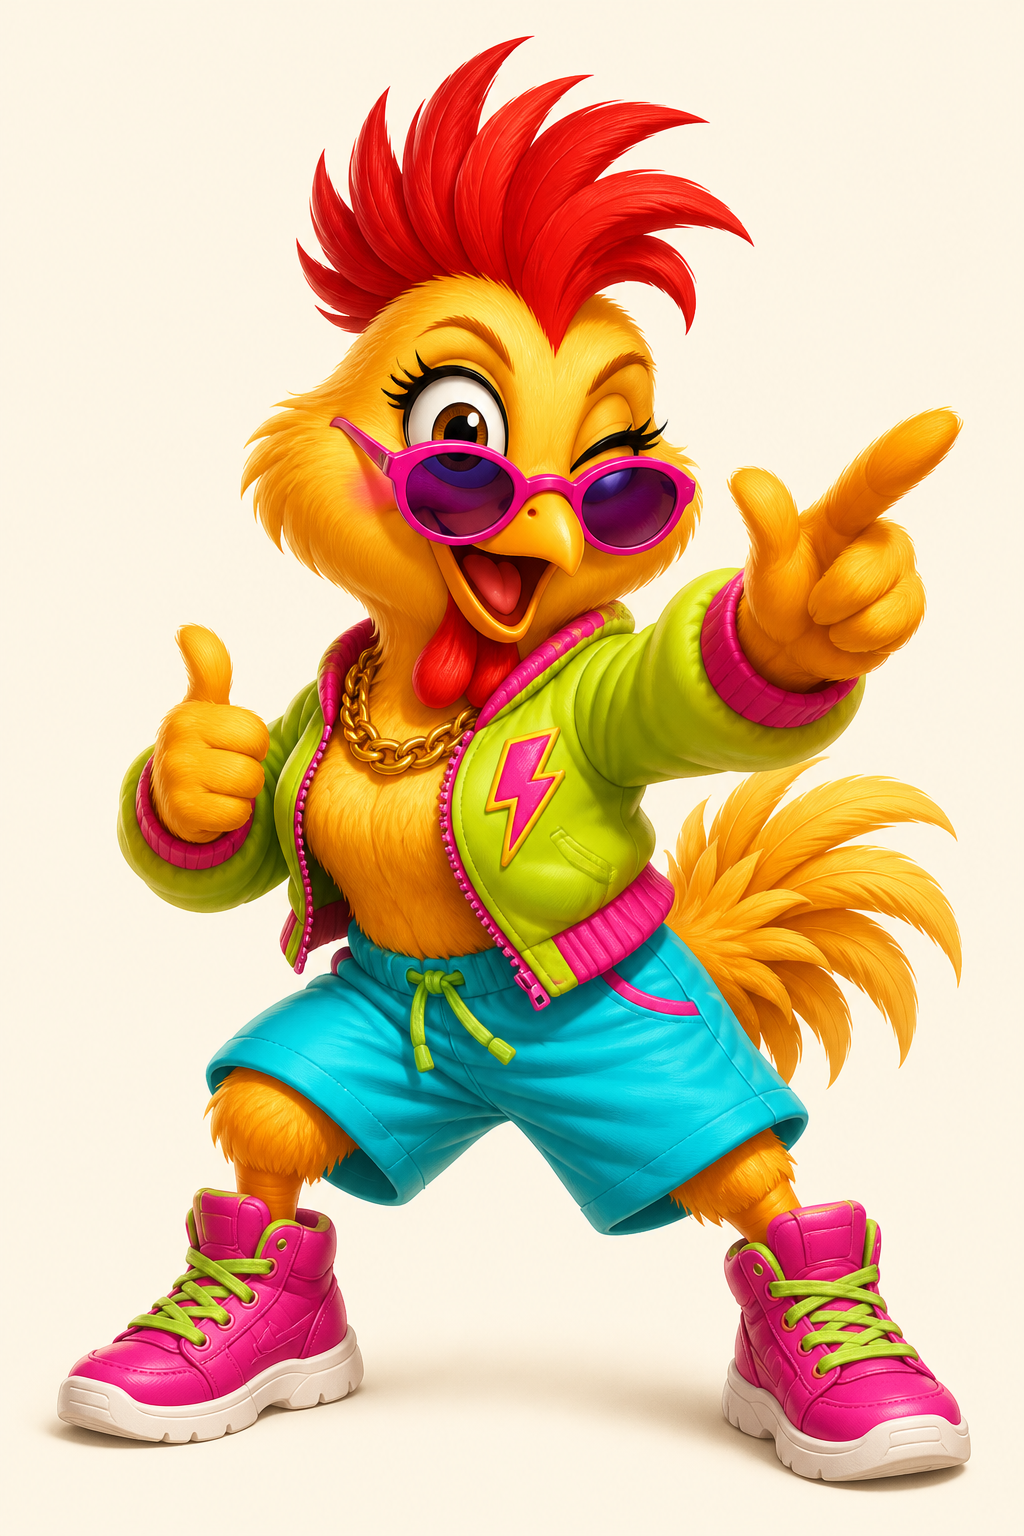
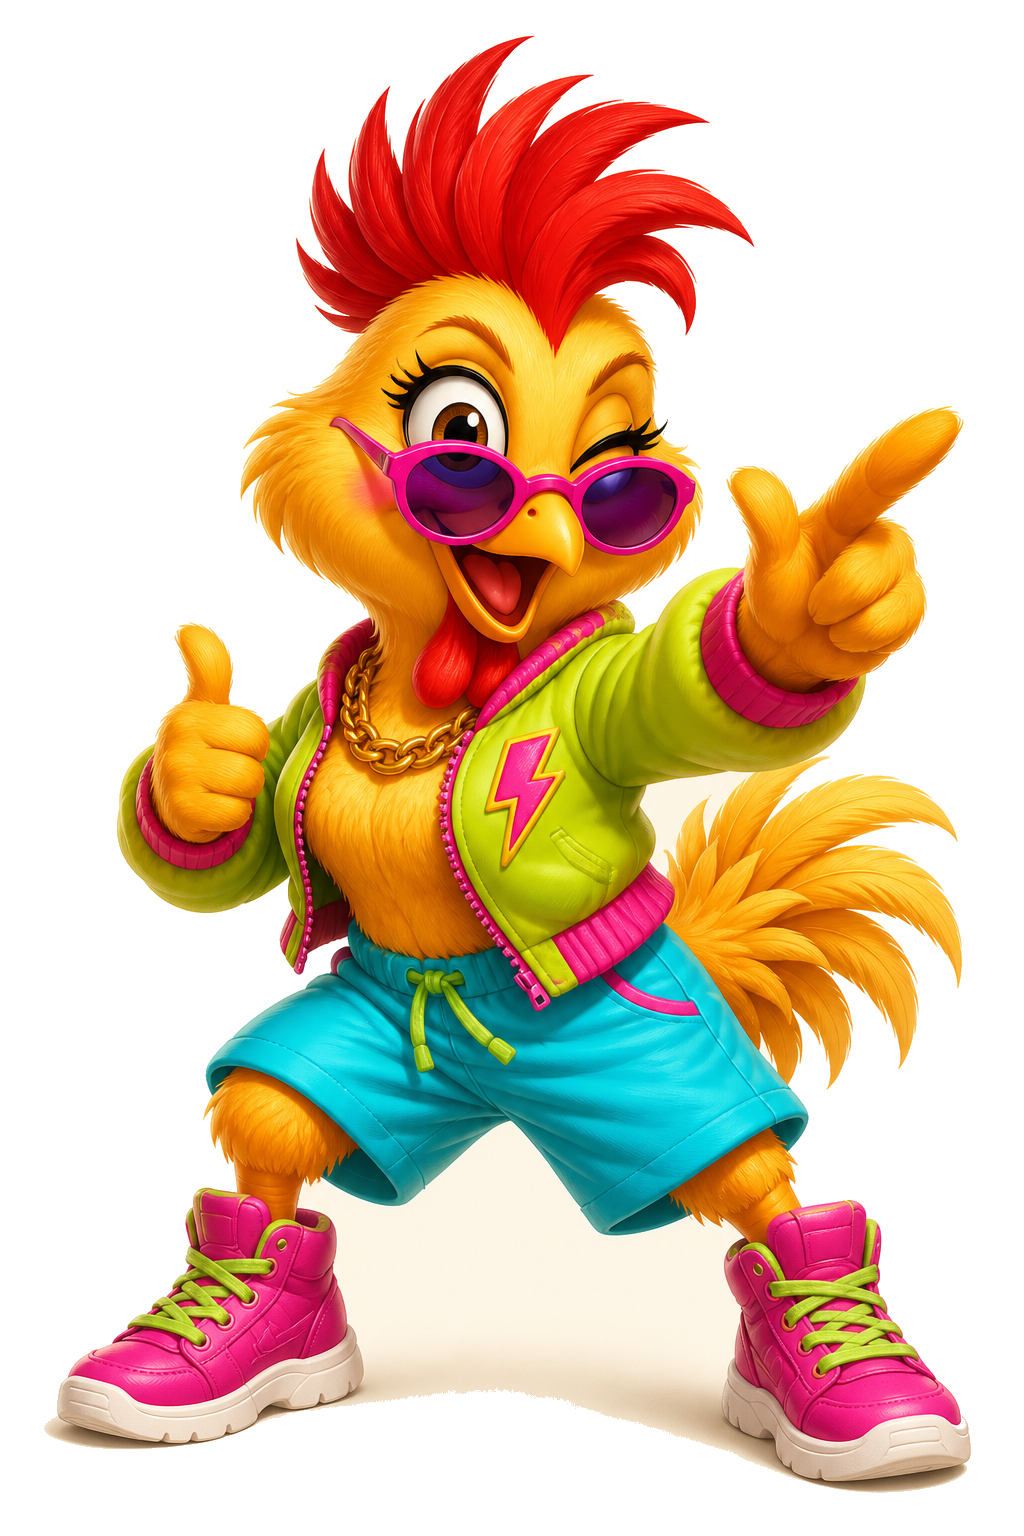
Fit the hen mascot in the split hero and knock out its backdrop
Scale Henrietta to the leftover hero height so her sneakers stay on screen, remove the cream PNG background, and add a demo hint on the forgot-password link.

diff --git a/src/App.css b/src/App.css
@@ -107,8 +107,8 @@
     radial-gradient(circle at 20% 80%, rgba(255, 45, 149, 0.22), transparent 32%),
     radial-gradient(circle at 90% 12%, rgba(25, 232, 255, 0.28), transparent 28%),
     linear-gradient(160deg, #fff8e6 0%, #ffe27a 42%, #ffb4e2 100%);
-  display: grid;
-  grid-template-rows: auto 1fr;
+  display: flex;
+  flex-direction: column;
   padding: 28px 24px 0;
 }
 
@@ -148,10 +148,12 @@
 
 .hen-stage {
   position: relative;
+  flex: 1 1 auto;
+  min-height: 0;
   display: flex;
   align-items: flex-end;
   justify-content: center;
-  min-height: 420px;
+  padding-bottom: 10px;
 }
 
 .speech {
@@ -183,8 +185,13 @@
 }
 
 .hen {
-  width: min(78%, 520px);
-  filter: drop-shadow(18px 28px 0 rgba(42, 8, 56, 0.18));
+  width: auto;
+  max-width: min(86%, 560px);
+  height: 100%;
+  max-height: min(100%, 62vh);
+  object-fit: contain;
+  object-position: bottom center;
+  filter: drop-shadow(0 18px 0 rgba(42, 8, 56, 0.16));
   animation: bounce 2.4s ease-in-out infinite;
   transform-origin: 50% 90%;
 }
@@ -197,13 +204,14 @@
 }
 
 .blob {
-  width: 140px;
-  height: 140px;
+  width: 120px;
+  height: 120px;
   border-radius: 50%;
   background: var(--lime);
   border: 3px solid var(--ink);
-  right: 24px;
-  top: 28%;
+  right: 18px;
+  top: 18%;
+  opacity: 0.85;
   animation: spin 12s linear infinite;
 }
 
@@ -228,6 +236,17 @@
     transparent 10px 18px
   );
   transform: rotate(-12deg);
+}
+
+.ground {
+  width: min(58%, 340px);
+  height: 28px;
+  bottom: 6px;
+  left: 50%;
+  transform: translateX(-50%);
+  background: rgba(42, 8, 56, 0.16);
+  border-radius: 50%;
+  filter: blur(2px);
 }
 
 .hero-right {
@@ -354,13 +373,21 @@
   cursor: wait;
 }
 
-.error {
-  background: #ffd0d8;
+.error,
+.notice {
   border: 3px solid var(--ink);
   border-radius: 14px;
   padding: 10px 12px;
   margin-bottom: 12px;
   font-weight: 600;
+}
+
+.error {
+  background: #ffd0d8;
+}
+
+.notice {
+  background: var(--cyan);
 }
 
 .hint {
@@ -452,6 +479,13 @@
   }
 }
 
+@media (min-width: 961px) {
+  .hero {
+    height: calc(100vh - 88px);
+    min-height: 620px;
+  }
+}
+
 @media (max-width: 960px) {
   .hero {
     grid-template-columns: 1fr;
@@ -462,7 +496,28 @@
   }
 
   .hen-stage {
-    min-height: 340px;
+    min-height: 320px;
+    height: 360px;
+  }
+
+  .hen {
+    height: 340px;
+    max-height: 360px;
+  }
+}
+
+@media (max-height: 780px) and (min-width: 961px) {
+  .headline {
+    font-size: clamp(1.7rem, 3.4vw, 2.8rem);
+  }
+
+  .lede {
+    font-size: 0.98rem;
+  }
+
+  .hero-left,
+  .hero-right {
+    padding-top: 18px;
   }
 }
 

diff --git a/src/App.tsx b/src/App.tsx
@@ -20,6 +20,7 @@ export default function App() {
   const [name, setName] = useState("");
   const [remember, setRemember] = useState(true);
   const [error, setError] = useState("");
+  const [notice, setNotice] = useState("");
   const [busy, setBusy] = useState(false);
   const [session, setSession] = useState<string | null>(() => readSession());
 
@@ -40,6 +41,7 @@ export default function App() {
   function onSubmit(event: FormEvent) {
     event.preventDefault();
     setError("");
+    setNotice("");
 
     const trimmedEmail = email.trim().toLowerCase();
     if (!/^[^\s@]+@[^\s@]+\.[^\s@]+$/.test(trimmedEmail)) {
@@ -113,6 +115,7 @@ export default function App() {
               <span className="blob" />
               <span className="star" />
               <span className="zig" />
+              <span className="ground" />
               <img
                 className="hen"
                 src="/henrietta-hen.png"
@@ -137,6 +140,7 @@ export default function App() {
                   onClick={() => {
                     setMode("login");
                     setError("");
+                    setNotice("");
                   }}
                 >
                   Log in
@@ -147,6 +151,7 @@ export default function App() {
                   onClick={() => {
                     setMode("signup");
                     setError("");
+                    setNotice("");
                   }}
                 >
                   Sign up
@@ -154,6 +159,7 @@ export default function App() {
               </div>
 
               {error ? <div className="error">{error}</div> : null}
+              {notice ? <div className="notice">{notice}</div> : null}
 
               {mode === "signup" ? (
                 <div className="field">
@@ -204,7 +210,13 @@ export default function App() {
                   />
                   Keep me struttin’
                 </label>
-                <button className="ghost-link" type="button">
+                <button
+                  className="ghost-link"
+                  type="button"
+                  onClick={() =>
+                    setNotice("Henrietta never forgets. Use any 6+ character password for this demo.")
+                  }
+                >
                   Forgot the groove?
                 </button>
               </div>
